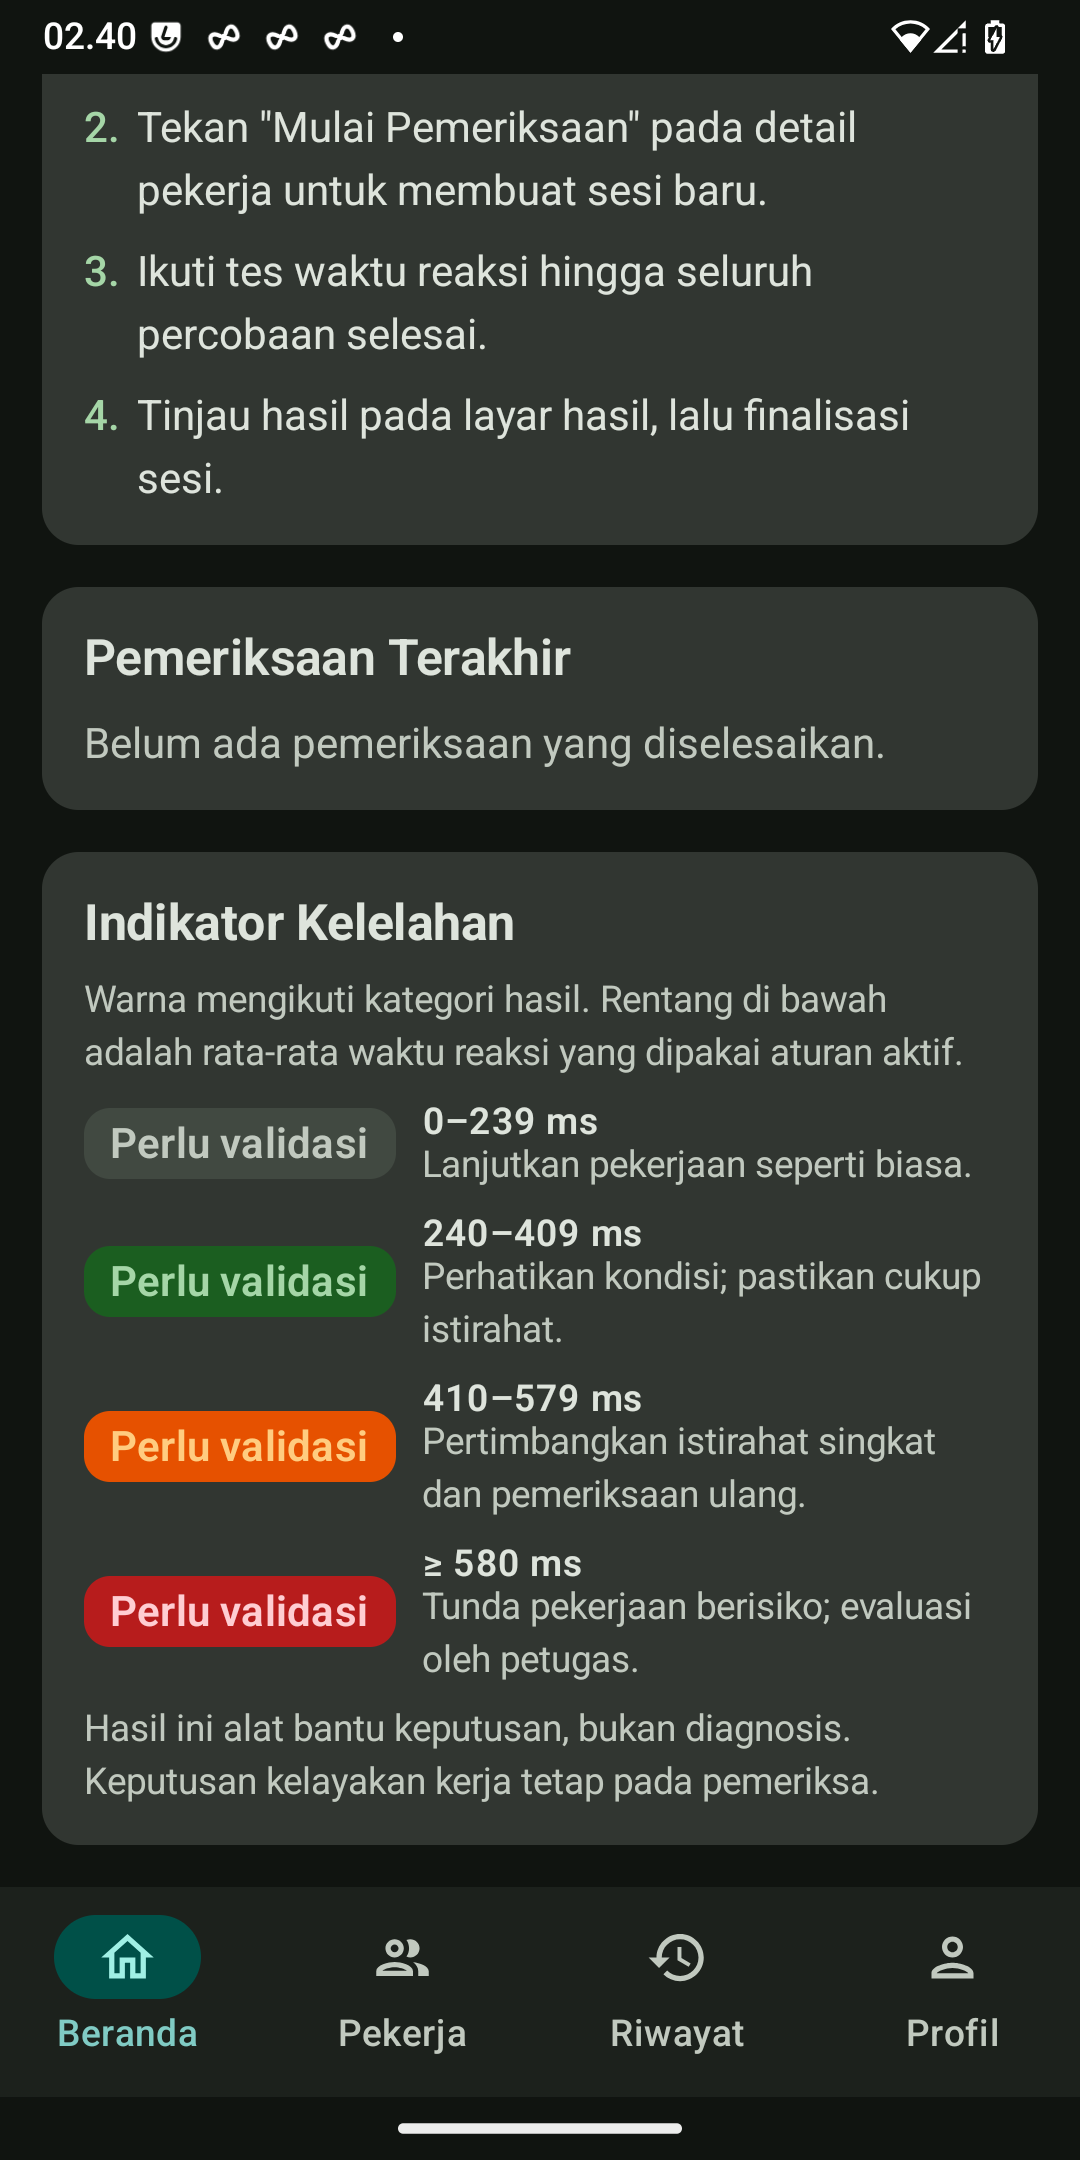
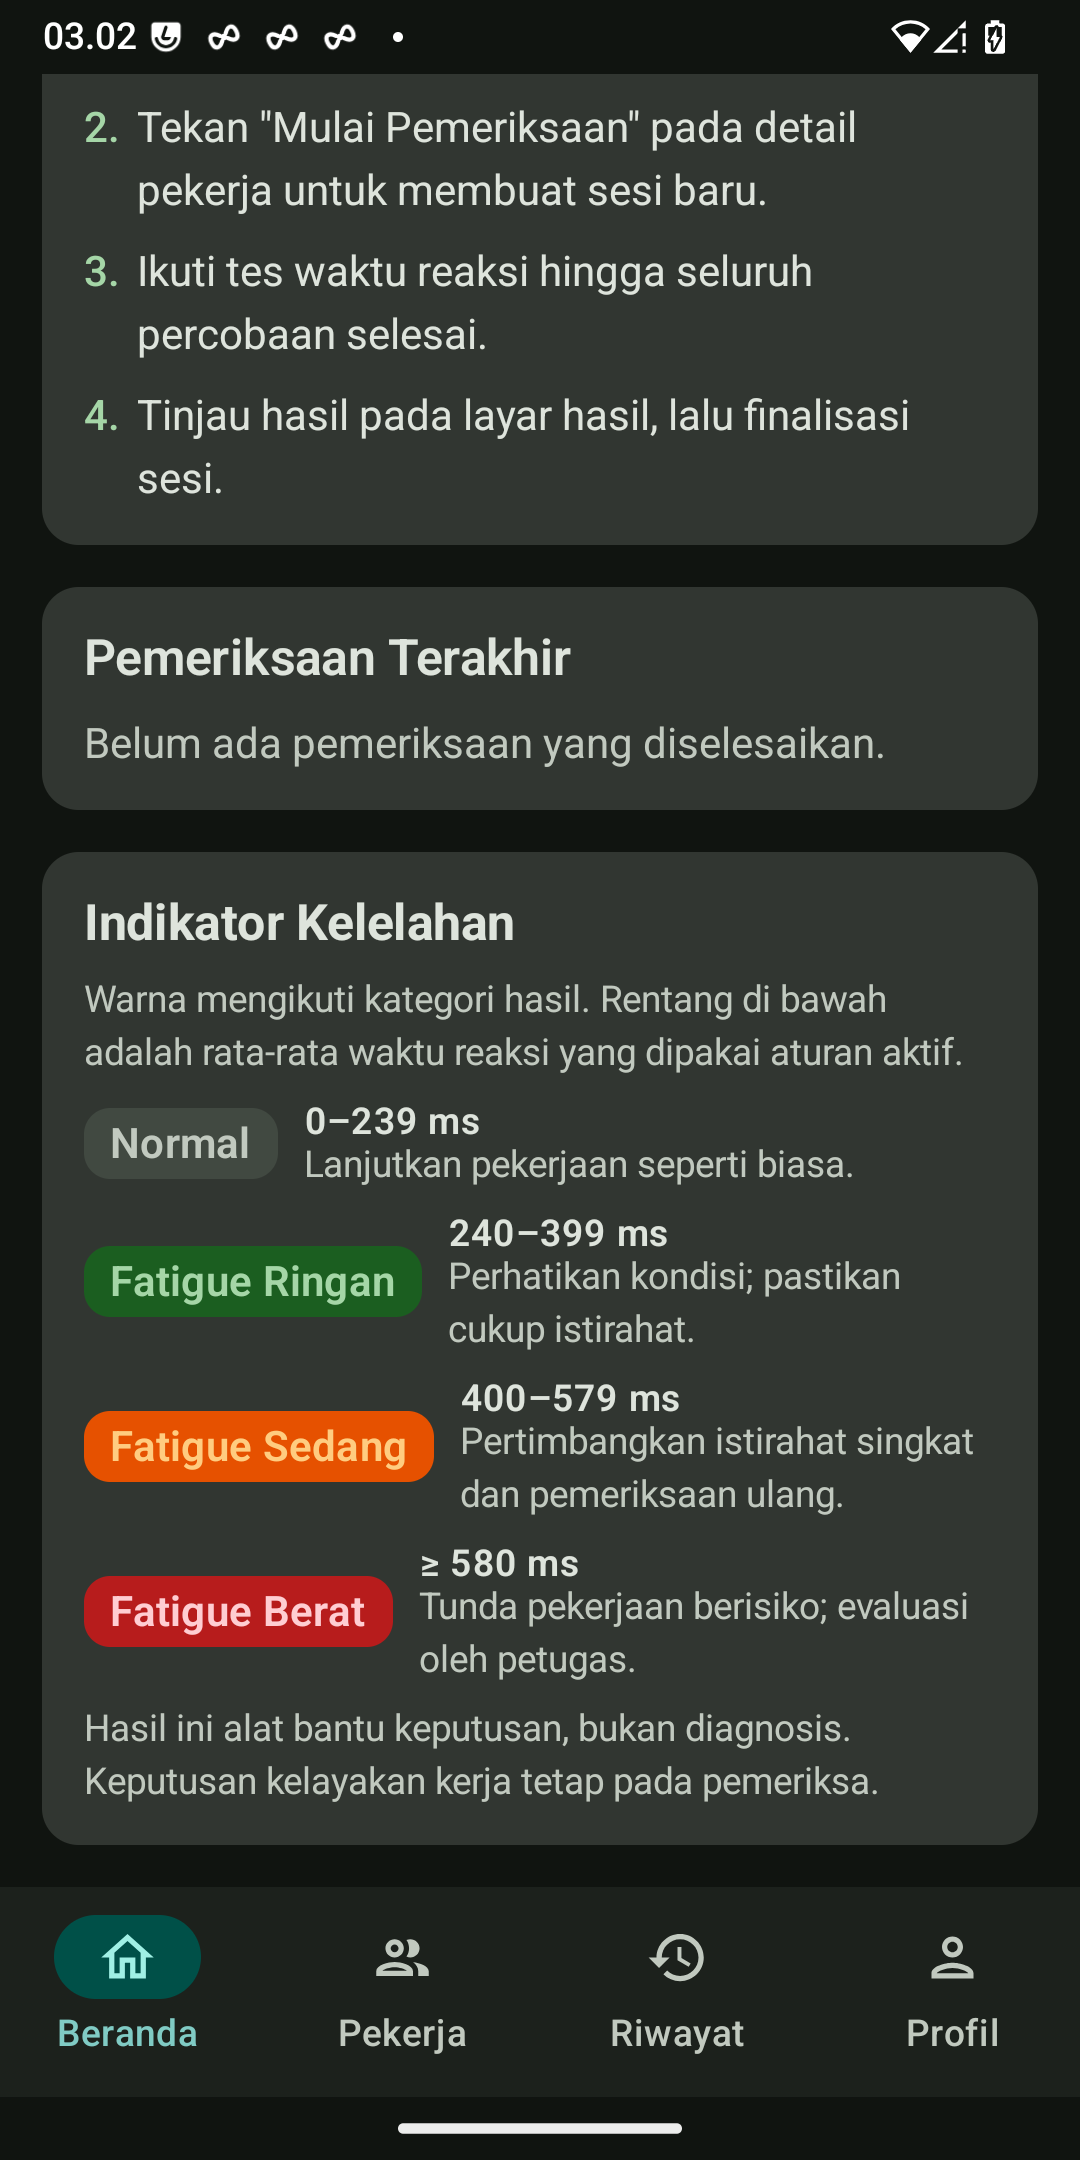
fix(release): R8 stripped Supabase serializers, breaking every network call
The release APK could not log in at all: every auth attempt failed with
'Koneksi jaringan bermasalah' on a healthy network, while the debug build worked.

Cause: proguard-rules.pro only kept serializers under com.ratig.app.**. Supabase-kt
serializes its own request/response bodies, so R8 renamed/stripped those generated
serializers and the first call threw at runtime. Added keep rules for
io.github.jan.supabase.** serializers and the Ktor engine/plugin classes that are
resolved by name.

Also fixed the misleading diagnosis: a SerializationException (including one
wrapped in a transport exception) is now reported as an app/data error instead of
a network error, so the next occurrence does not send anyone chasing connectivity.

Legend completeness:
- Band labels came straight from the rule, so a seeded rule printed 'Perlu
  validasi' four times. bandDisplayName() falls back to the canonical
  Normal/Ringan/Sedang/Berat when the label is a placeholder.
- Live rule updated to real labels and desktop-aligned thresholds (240/400/580).

Verified on device: release APK logs in successfully after the fix; the legend
shows name + range + meaning. 126 JVM tests, 0 failures.

diff --git a/app/src/test/java/com/ratig/app/ui/components/SeverityLegendTest.kt b/app/src/test/java/com/ratig/app/ui/components/SeverityLegendTest.kt
@@ -55,6 +55,24 @@ class SeverityLegendTest {
     }
 
     @Test
+    fun `placeholder labels fall back to the canonical band name`() {
+        // The seeded rule ships "Perlu validasi" on every band. Showing that four
+        // times tells the reader nothing, so the legend derives the real name.
+        assertEquals("Normal", bandDisplayName("Perlu validasi", SeverityScale.NORMAL))
+        assertEquals("Ringan", bandDisplayName("Perlu validasi", SeverityScale.MILD))
+        assertEquals("Sedang", bandDisplayName("Perlu validasi", SeverityScale.MODERATE))
+        assertEquals("Berat", bandDisplayName("Perlu validasi", SeverityScale.SEVERE))
+        assertEquals("Normal", bandDisplayName(null, SeverityScale.NORMAL))
+        assertEquals("Sedang", bandDisplayName("  ", SeverityScale.MODERATE))
+    }
+
+    @Test
+    fun `a real organization label is shown as written`() {
+        assertEquals("Fatigue Ringan", bandDisplayName("Fatigue Ringan", SeverityScale.MILD))
+        assertEquals("Aman", bandDisplayName("Aman", SeverityScale.NORMAL))
+    }
+
+    @Test
     fun `unknown severity is labelled rather than left blank`() {
         assertEquals("Kategori belum ditetapkan aturan.", bandMeaning(SeverityScale.UNKNOWN))
     }

diff --git a/app/src/main/java/com/ratig/app/ui/components/SeverityLegend.kt b/app/src/main/java/com/ratig/app/ui/components/SeverityLegend.kt
@@ -120,6 +120,26 @@ fun com.ratig.app.domain.model.RuleBand.rangeLabel(): String {
     return if (upper == null) "≥ $minMs ms" else "$minMs–${upper - 1} ms"
 }
 
+/**
+ * Display name for a band. Falls back to the canonical name derived from
+ * severity when the organization's rule still carries the unvalidated
+ * placeholder, so the legend never shows the same meaningless word four times.
+ */
+fun bandDisplayName(label: String?, severity: Int): String {
+    val cleaned = label?.trim().orEmpty()
+    val isPlaceholder = cleaned.isEmpty() ||
+        cleaned.equals("Perlu validasi", ignoreCase = true) ||
+        cleaned.equals("Belum dikonfigurasi", ignoreCase = true)
+    if (!isPlaceholder) return cleaned
+    return when (severity) {
+        SeverityScale.NORMAL -> "Normal"
+        SeverityScale.MILD -> "Ringan"
+        SeverityScale.MODERATE -> "Sedang"
+        SeverityScale.SEVERE -> "Berat"
+        else -> "Belum ditetapkan"
+    }
+}
+
 /** Short operational meaning of a band severity, for the legend. */
 fun bandMeaning(severity: Int): String = when (severity) {
     SeverityScale.NORMAL -> "Lanjutkan pekerjaan seperti biasa."

diff --git a/app/src/main/java/com/ratig/app/core/result/AppResult.kt b/app/src/main/java/com/ratig/app/core/result/AppResult.kt
@@ -71,6 +71,16 @@ fun Throwable.toAppError(): AppError {
     val message = message ?: ""
     val lower = message.lowercase()
     return when {
+        // A serialization failure is a defect in the app, not the network. It
+        // used to surface as "Koneksi jaringan bermasalah" because it arrived
+        // wrapped in a transport exception, which sent everyone chasing a
+        // connectivity problem that did not exist.
+        this is kotlinx.serialization.SerializationException ||
+            generateSequence(this) { it.cause }.any {
+                it is kotlinx.serialization.SerializationException
+            } -> AppError.Unexpected(
+            "Terjadi kesalahan saat memproses data. Perbarui aplikasi ke versi terbaru.",
+        )
         this is io.github.jan.supabase.exceptions.HttpRequestException ||
             this is io.ktor.client.plugins.HttpRequestTimeoutException ||
             lower.contains("unable to resolve host") ||

diff --git a/app/src/main/java/com/ratig/app/feature/testflow/TestResultScreen.kt b/app/src/main/java/com/ratig/app/feature/testflow/TestResultScreen.kt
@@ -52,6 +52,7 @@ import com.ratig.app.ui.components.MetricTile
 import com.ratig.app.domain.model.FatigueRule
 import com.ratig.app.ui.components.LegendBand
 import com.ratig.app.ui.components.SeverityLegendCard
+import com.ratig.app.ui.components.bandDisplayName
 import com.ratig.app.ui.components.bandMeaning
 import com.ratig.app.ui.components.rangeLabel
 import com.ratig.app.ui.components.SeverityBadge
@@ -192,7 +193,7 @@ class TestResultViewModel @Inject constructor(
                     modeQuality = modeQualityClassifier.classify(result),
                     legendBands = appliedRule?.config?.bands?.map { band ->
                         LegendBand(
-                            band = band.label,
+                            band = bandDisplayName(band.label, band.severity),
                             severity = band.severity,
                             range = band.rangeLabel(),
                             meaning = bandMeaning(band.severity),

diff --git a/app/src/main/java/com/ratig/app/feature/dashboard/DashboardScreen.kt b/app/src/main/java/com/ratig/app/feature/dashboard/DashboardScreen.kt
@@ -41,6 +41,7 @@ import androidx.compose.ui.text.font.FontWeight
 import com.ratig.app.domain.repository.ProtocolRepository
 import com.ratig.app.ui.components.LegendBand
 import com.ratig.app.ui.components.SeverityLegendCard
+import com.ratig.app.ui.components.bandDisplayName
 import com.ratig.app.ui.components.bandMeaning
 import com.ratig.app.ui.components.rangeLabel
 import androidx.compose.ui.unit.dp
@@ -670,7 +671,7 @@ class DashboardViewModel @Inject constructor(
             state.copy(
                 legendBands = bands.map { band ->
                     LegendBand(
-                        band = band.label,
+                        band = bandDisplayName(band.label, band.severity),
                         severity = band.severity,
                         range = band.rangeLabel(),
                         meaning = bandMeaning(band.severity),
